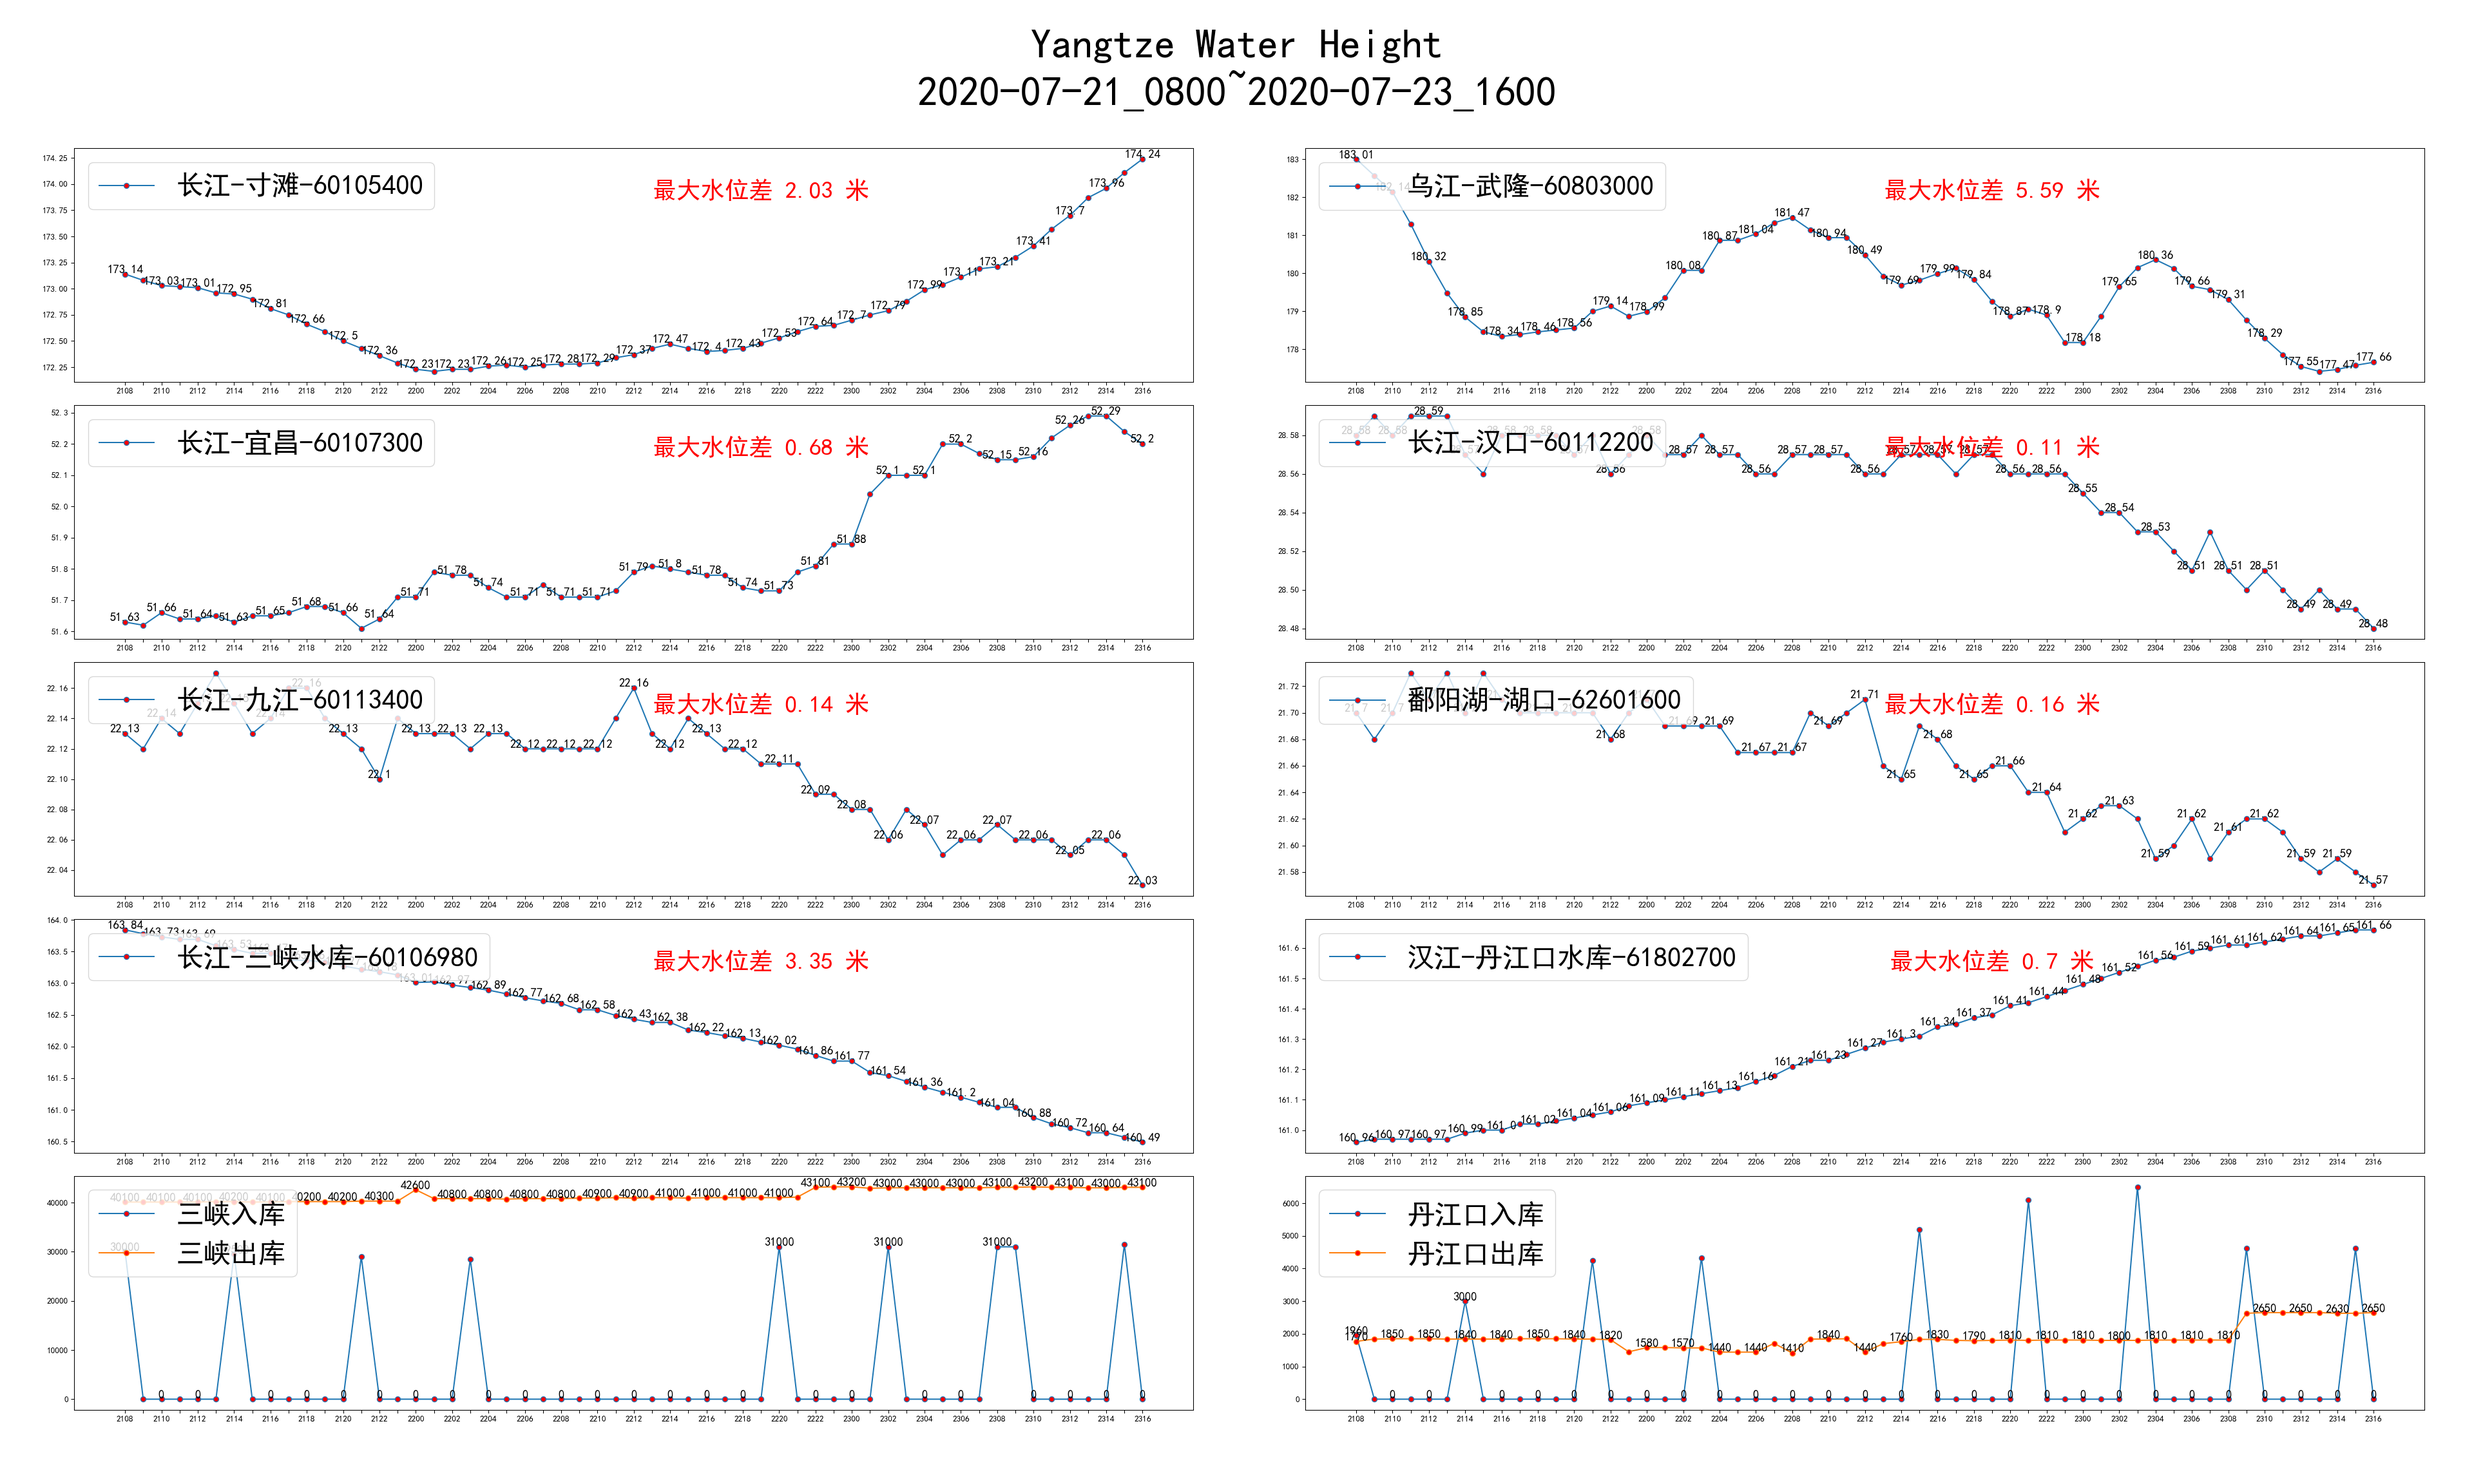
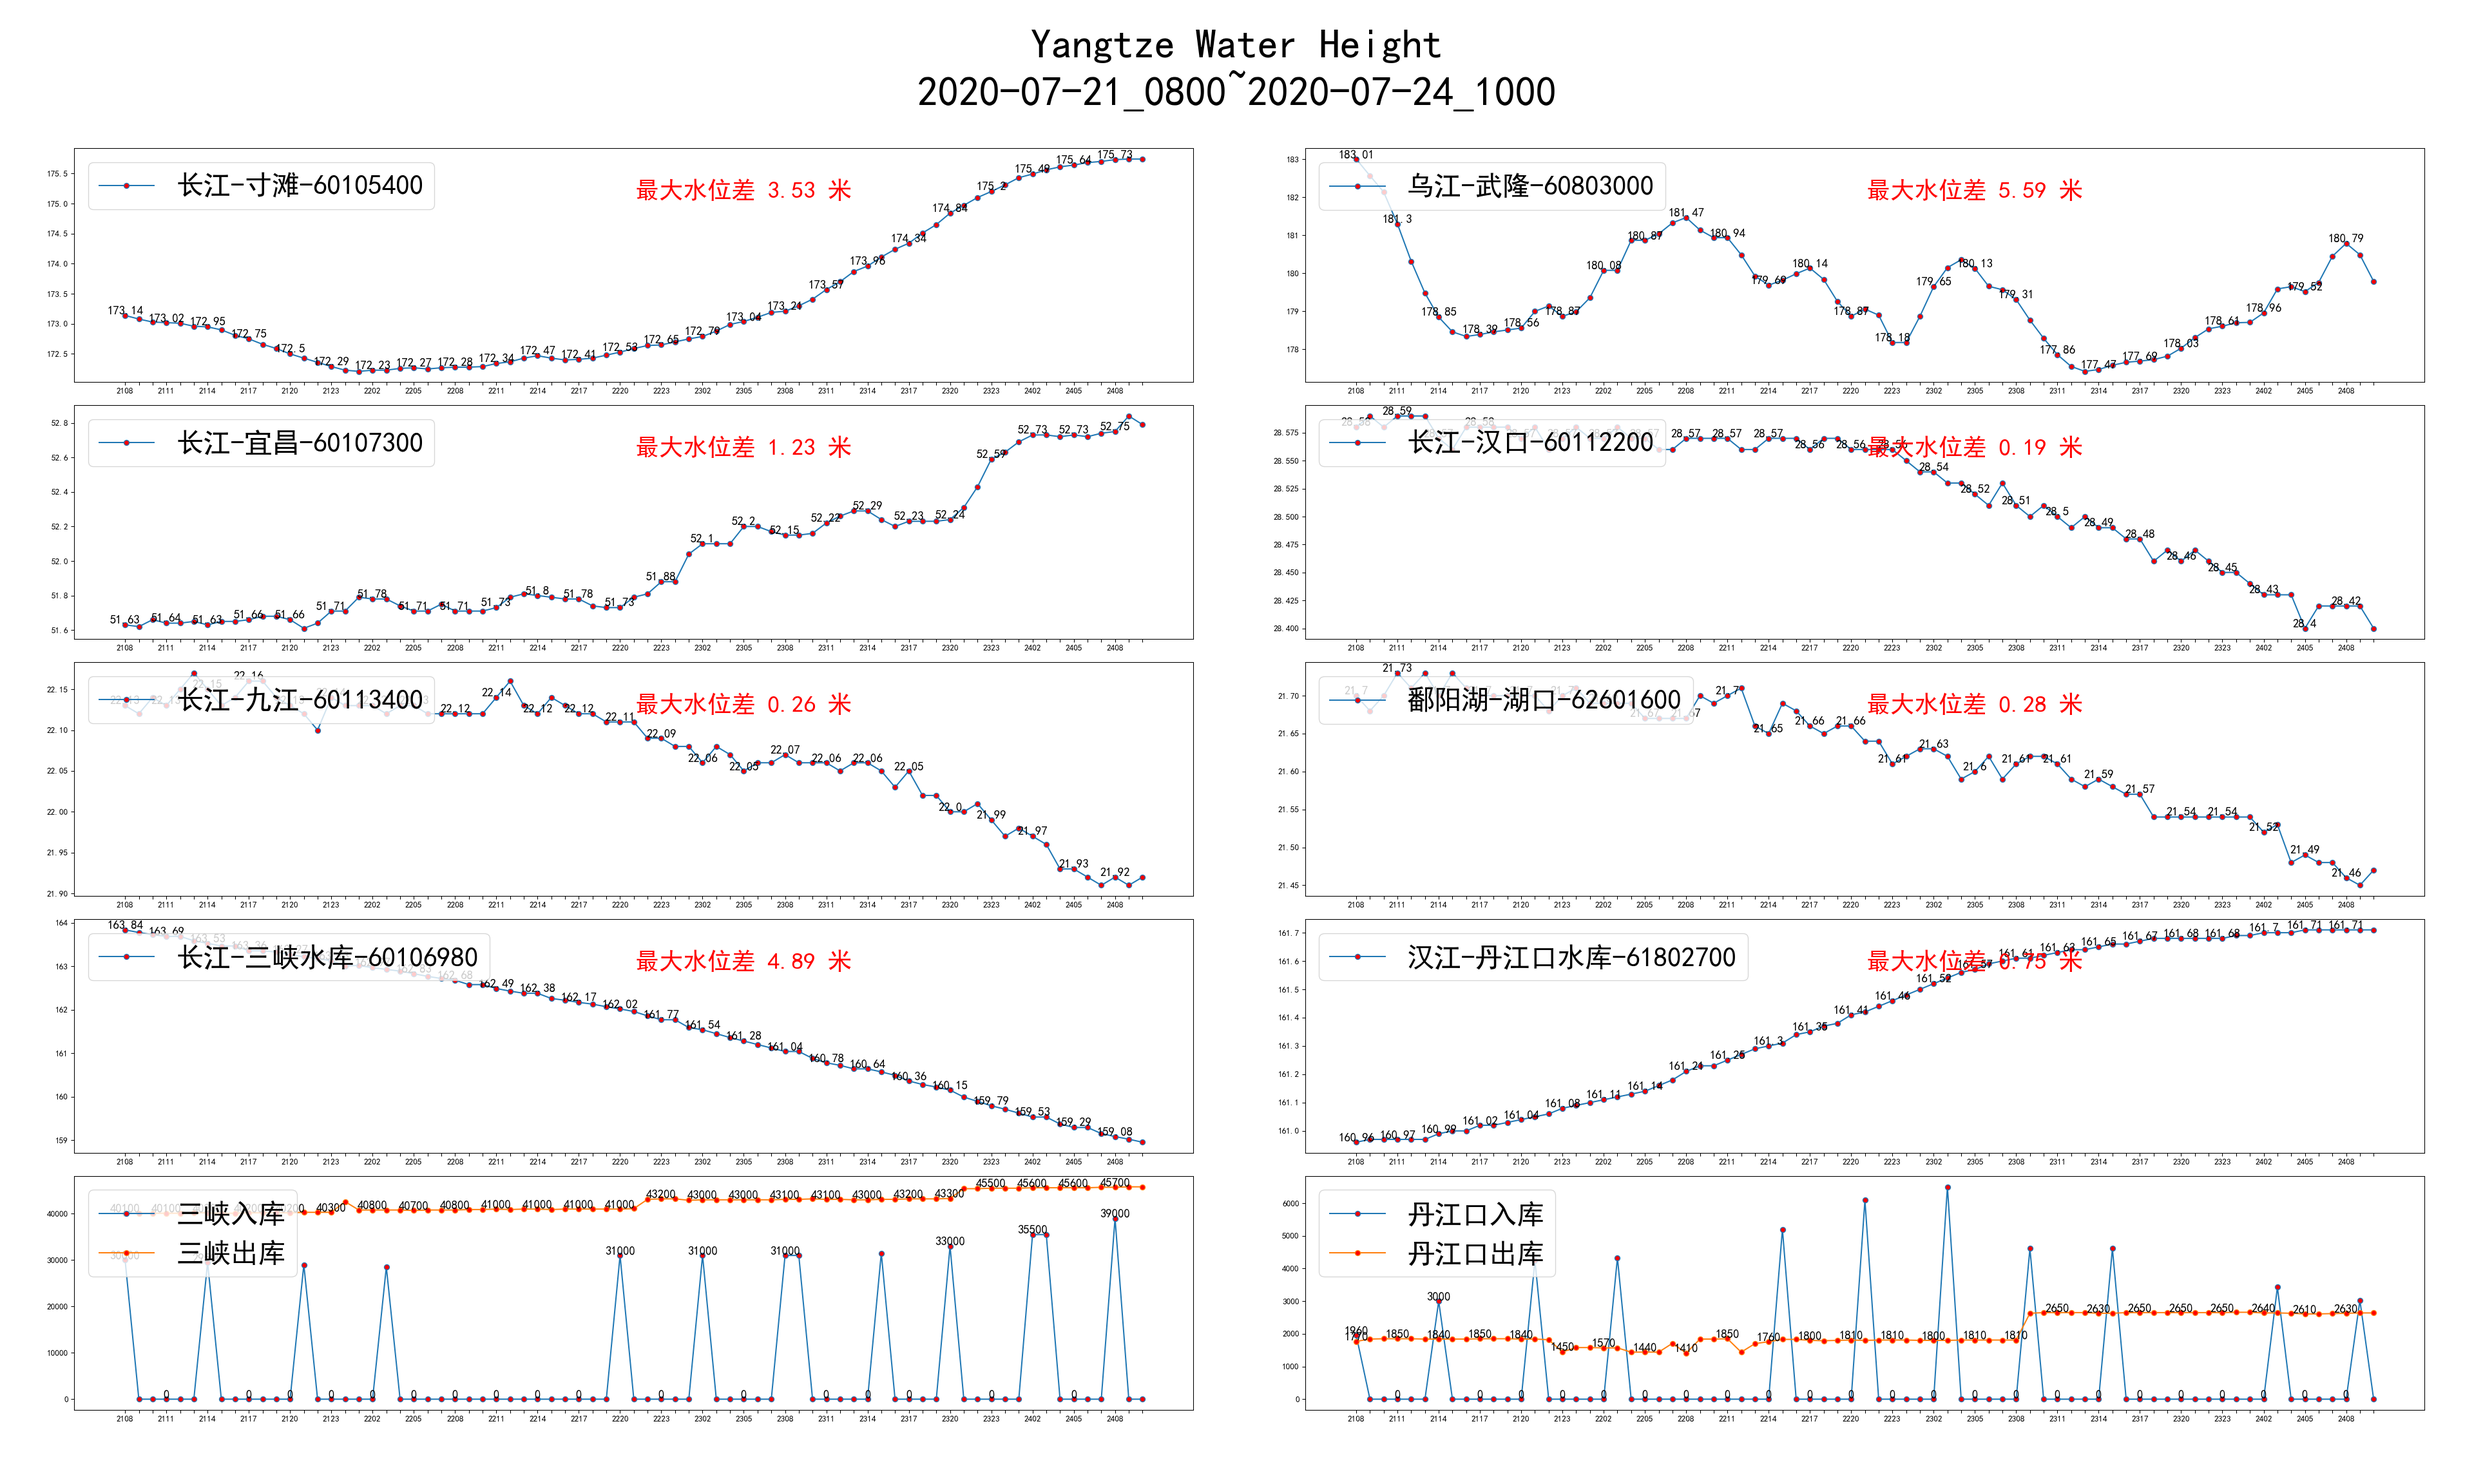
新增web页； 新增web启动脚本； 增加Linux支持脚本； 更多的数据； 更新文档；

diff --git a/index.html b/index.html
@@ -1,0 +1,5 @@
+<html>
+    <body>
+        <img src="last.png" width="1500">
+    </body>
+</html>

diff --git a/readme.md b/readme.md
@@ -1,12 +1,17 @@
 # 长江实时水情
 
-长江水文网每小时发布实时水情，本程序采集重要水文站水情，绘制最近几天（72小时）的水位图
-
-建议每半小时采集一次，Windows用户可以使用`任务计划程序`执行`run.bat`
+长江水文网每小时发布实时水情，本程序采集重要水文站水情，绘制最近的水位图
 
 本程序使用*MIT*协议，欢迎有资源的朋友部署到服务器，定时执行
 
 ## 运行
+
+建议每半小时采集一次
+
+* Windows用户`任务计划程序`执行`run.bat`
+* Linux用户`crontab`执行`run.sh`
+
+启动web服务脚本`web.[bat|sh]`
 
 ```python
 python water.py [cmd]
